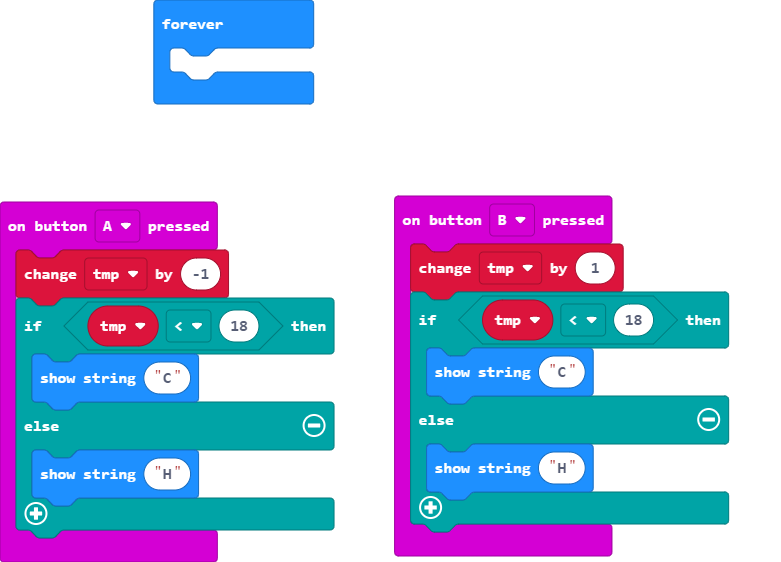
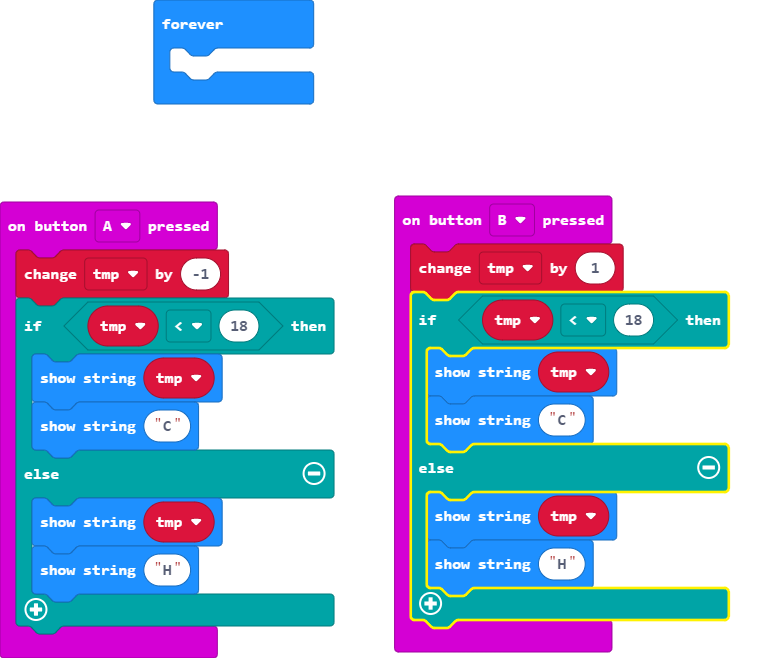
Update main.blocks, main.ts

diff --git a/main.ts b/main.ts
@@ -2,16 +2,20 @@ let tmp = 0
 input.onButtonPressed(Button.A, function () {
     tmp += -1
     if (tmp < 18) {
+        basic.showString("" + (tmp))
         basic.showString("C")
     } else {
+        basic.showString("" + (tmp))
         basic.showString("H")
     }
 })
 input.onButtonPressed(Button.B, function () {
     tmp += 1
     if (tmp < 18) {
+        basic.showString("" + (tmp))
         basic.showString("C")
     } else {
+        basic.showString("" + (tmp))
         basic.showString("H")
     }
 })
